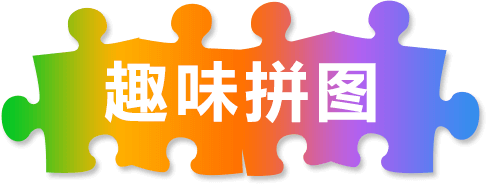
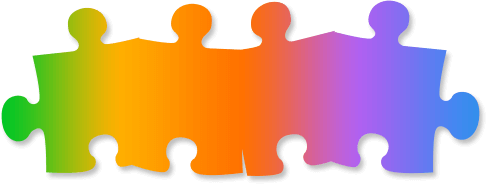
lm

Changed region(s): [[0.2156, 0.3261, 0.77, 0.6793]]

diff --git a/src/pages/puzzle/index.vue b/src/pages/puzzle/index.vue
@@ -1,6 +1,6 @@
 <template>
   <div class="puzzleHome" v-if="gameInfo">
-    <img class="title" src="../../assets/img/icon2-1.png" alt="">
+    <div class="title">趣味拼图</div>
     <div class="p-main">
       <div class="scroll scrollbar" v-html="gameInfo.gameRule"></div>
     </div>
@@ -82,6 +82,15 @@
     .title{
       display: block;
       margin: 40px auto 20px;
+      width: 487px;
+      height: 184px;
+      background: url(../../assets/img/icon2-1.png) no-repeat center;
+      font-size: 64px;
+      font-weight: bold;
+      color: #fff;
+      line-height: 180px;
+      text-align: center;
+      overflow: hidden;
     }
     .p-main{
       width: 628px;
